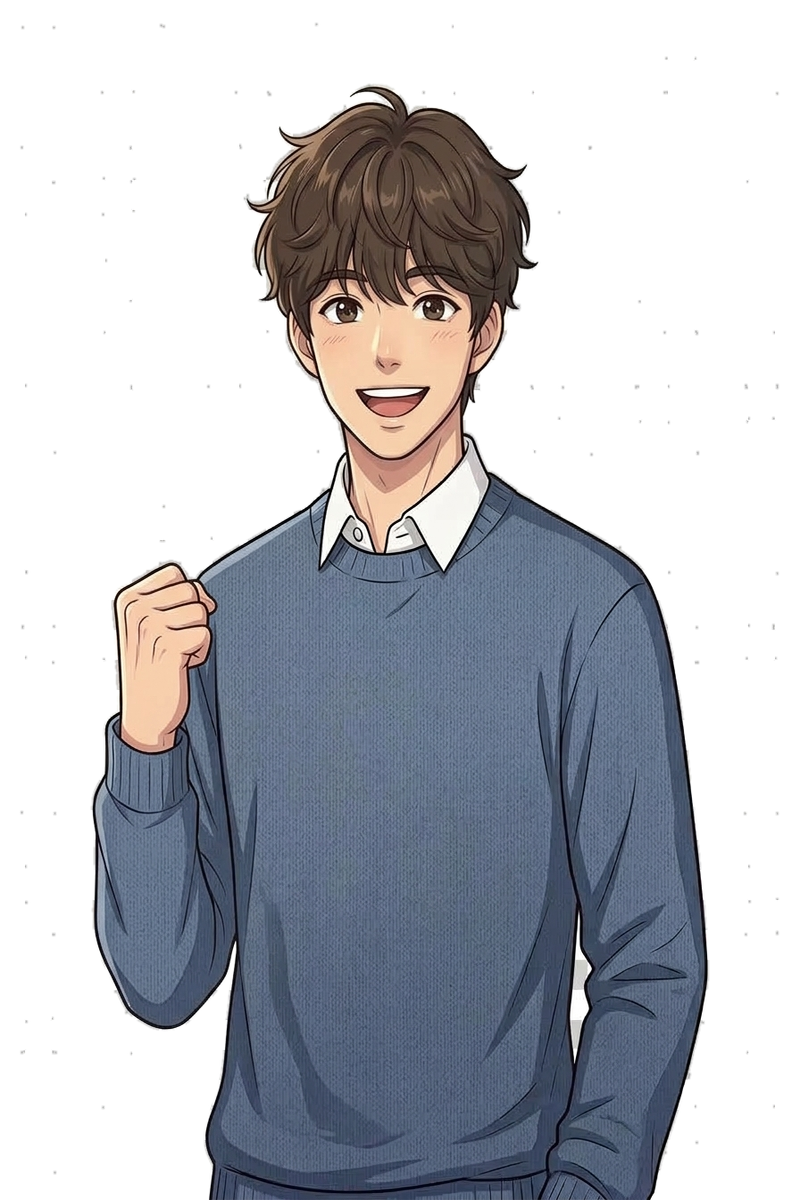
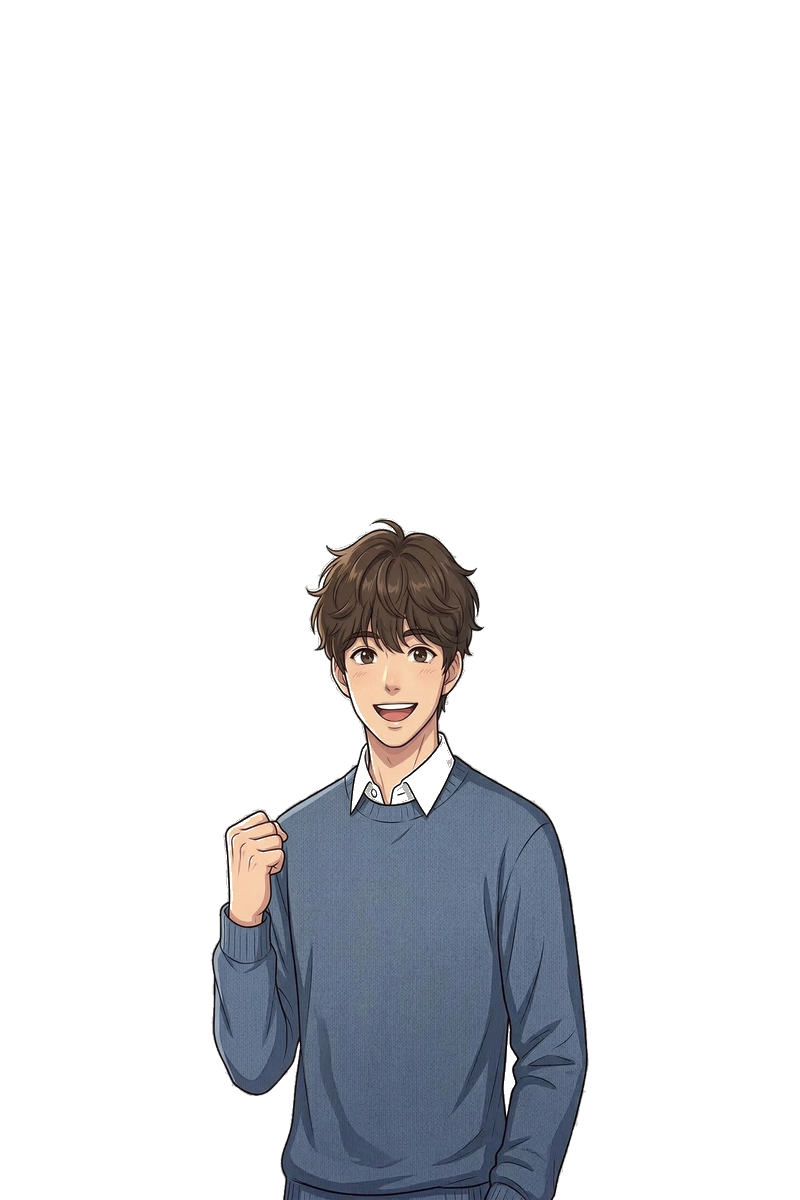
fix(assets): Normalize Ep2 & Ep3 sprite proportions to standard 720px height and remove white fringe artifacts

diff --git a/index.html b/index.html
@@ -1181,7 +1181,7 @@
 
   <!-- ================= [SCRIPT: 비주얼 노벨 인터랙티브 엔진] ================= -->
   <script>
-    const ASSET_VER = '20260910_ep2_v195_31';
+    const ASSET_VER = '20260923_norm_v1';
     function getAssetUrl(url) {
       if (!url) return '';
       if (url.includes('?')) return url;
